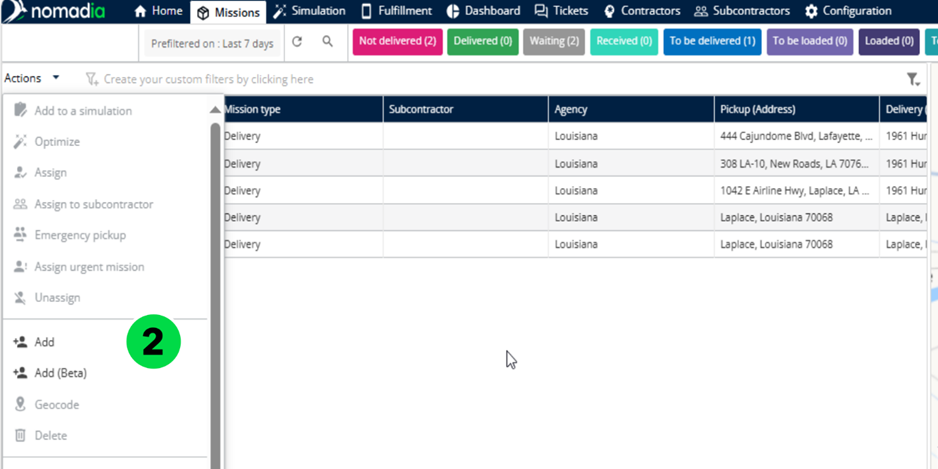
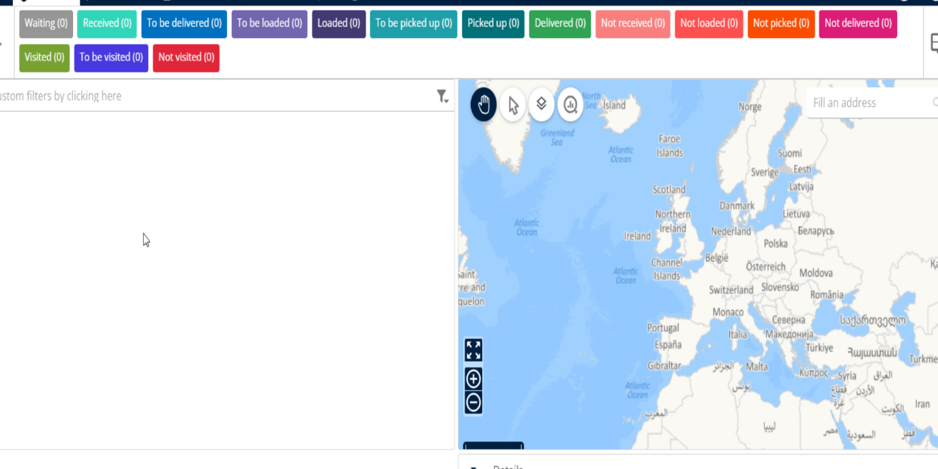
GITBOOK-315: No subject

diff --git a/8-6-missions/understanding-the-missions-page/README.md b/8-6-missions/understanding-the-missions-page/README.md
@@ -32,3 +32,11 @@ From the Missions page:
 The Pre-filters on the Missions Page are dynamic sections that provide users with detailed and contextual information based on their current selection or interaction. These pre-filters enhance navigation and productivity by allowing quick access to relevant data without switching screens.
 
 ![](<../../.gitbook/assets/image-4 (3).png>)
+
+### Default Delivery statuses
+
+Below are an overview of the various mission statuses and their significance:
+
+<table data-header-hidden><thead><tr><th valign="top"></th><th valign="top"></th></tr></thead><tbody><tr><td valign="top">Status</td><td valign="top">Description</td></tr><tr><td valign="top">Waiting</td><td valign="top">The mission is expected but not yet received</td></tr><tr><td valign="top">Received</td><td valign="top">The mission has been successfully received</td></tr><tr><td valign="top">To be Delivered</td><td valign="top">The mission is prepared for delivery</td></tr><tr><td valign="top">To be Loaded</td><td valign="top">The mission is waiting to be loaded.</td></tr><tr><td valign="top">Loaded</td><td valign="top">The package is now loaded and in transit</td></tr><tr><td valign="top">To be Picked up</td><td valign="top">Mission is scheduled and awaiting pick up</td></tr><tr><td valign="top">Picked up</td><td valign="top">Item has been collected from the origin</td></tr><tr><td valign="top">Delivered</td><td valign="top">The delivery is completed successfully.</td></tr><tr><td valign="top">Not Received</td><td valign="top">Indicates a mission was expected but couldn’t be received</td></tr><tr><td valign="top">Not Loaded</td><td valign="top">The mission couldn’t be loaded as expected</td></tr><tr><td valign="top">Not Picked up</td><td valign="top">Scheduled pickup was missed or failed.</td></tr><tr><td valign="top">Not Delivered</td><td valign="top">The delivery failed</td></tr><tr><td valign="top">Visited</td><td valign="top">Destination has been successfully visited</td></tr><tr><td valign="top">To be Visited</td><td valign="top">Destination is scheduled for a visit.</td></tr><tr><td valign="top">Not Visited</td><td valign="top">The scheduled visit was missed or unsuccessful.</td></tr></tbody></table>
+
+<figure><img src="../../.gitbook/assets/image (40).png" alt=""><figcaption></figcaption></figure>